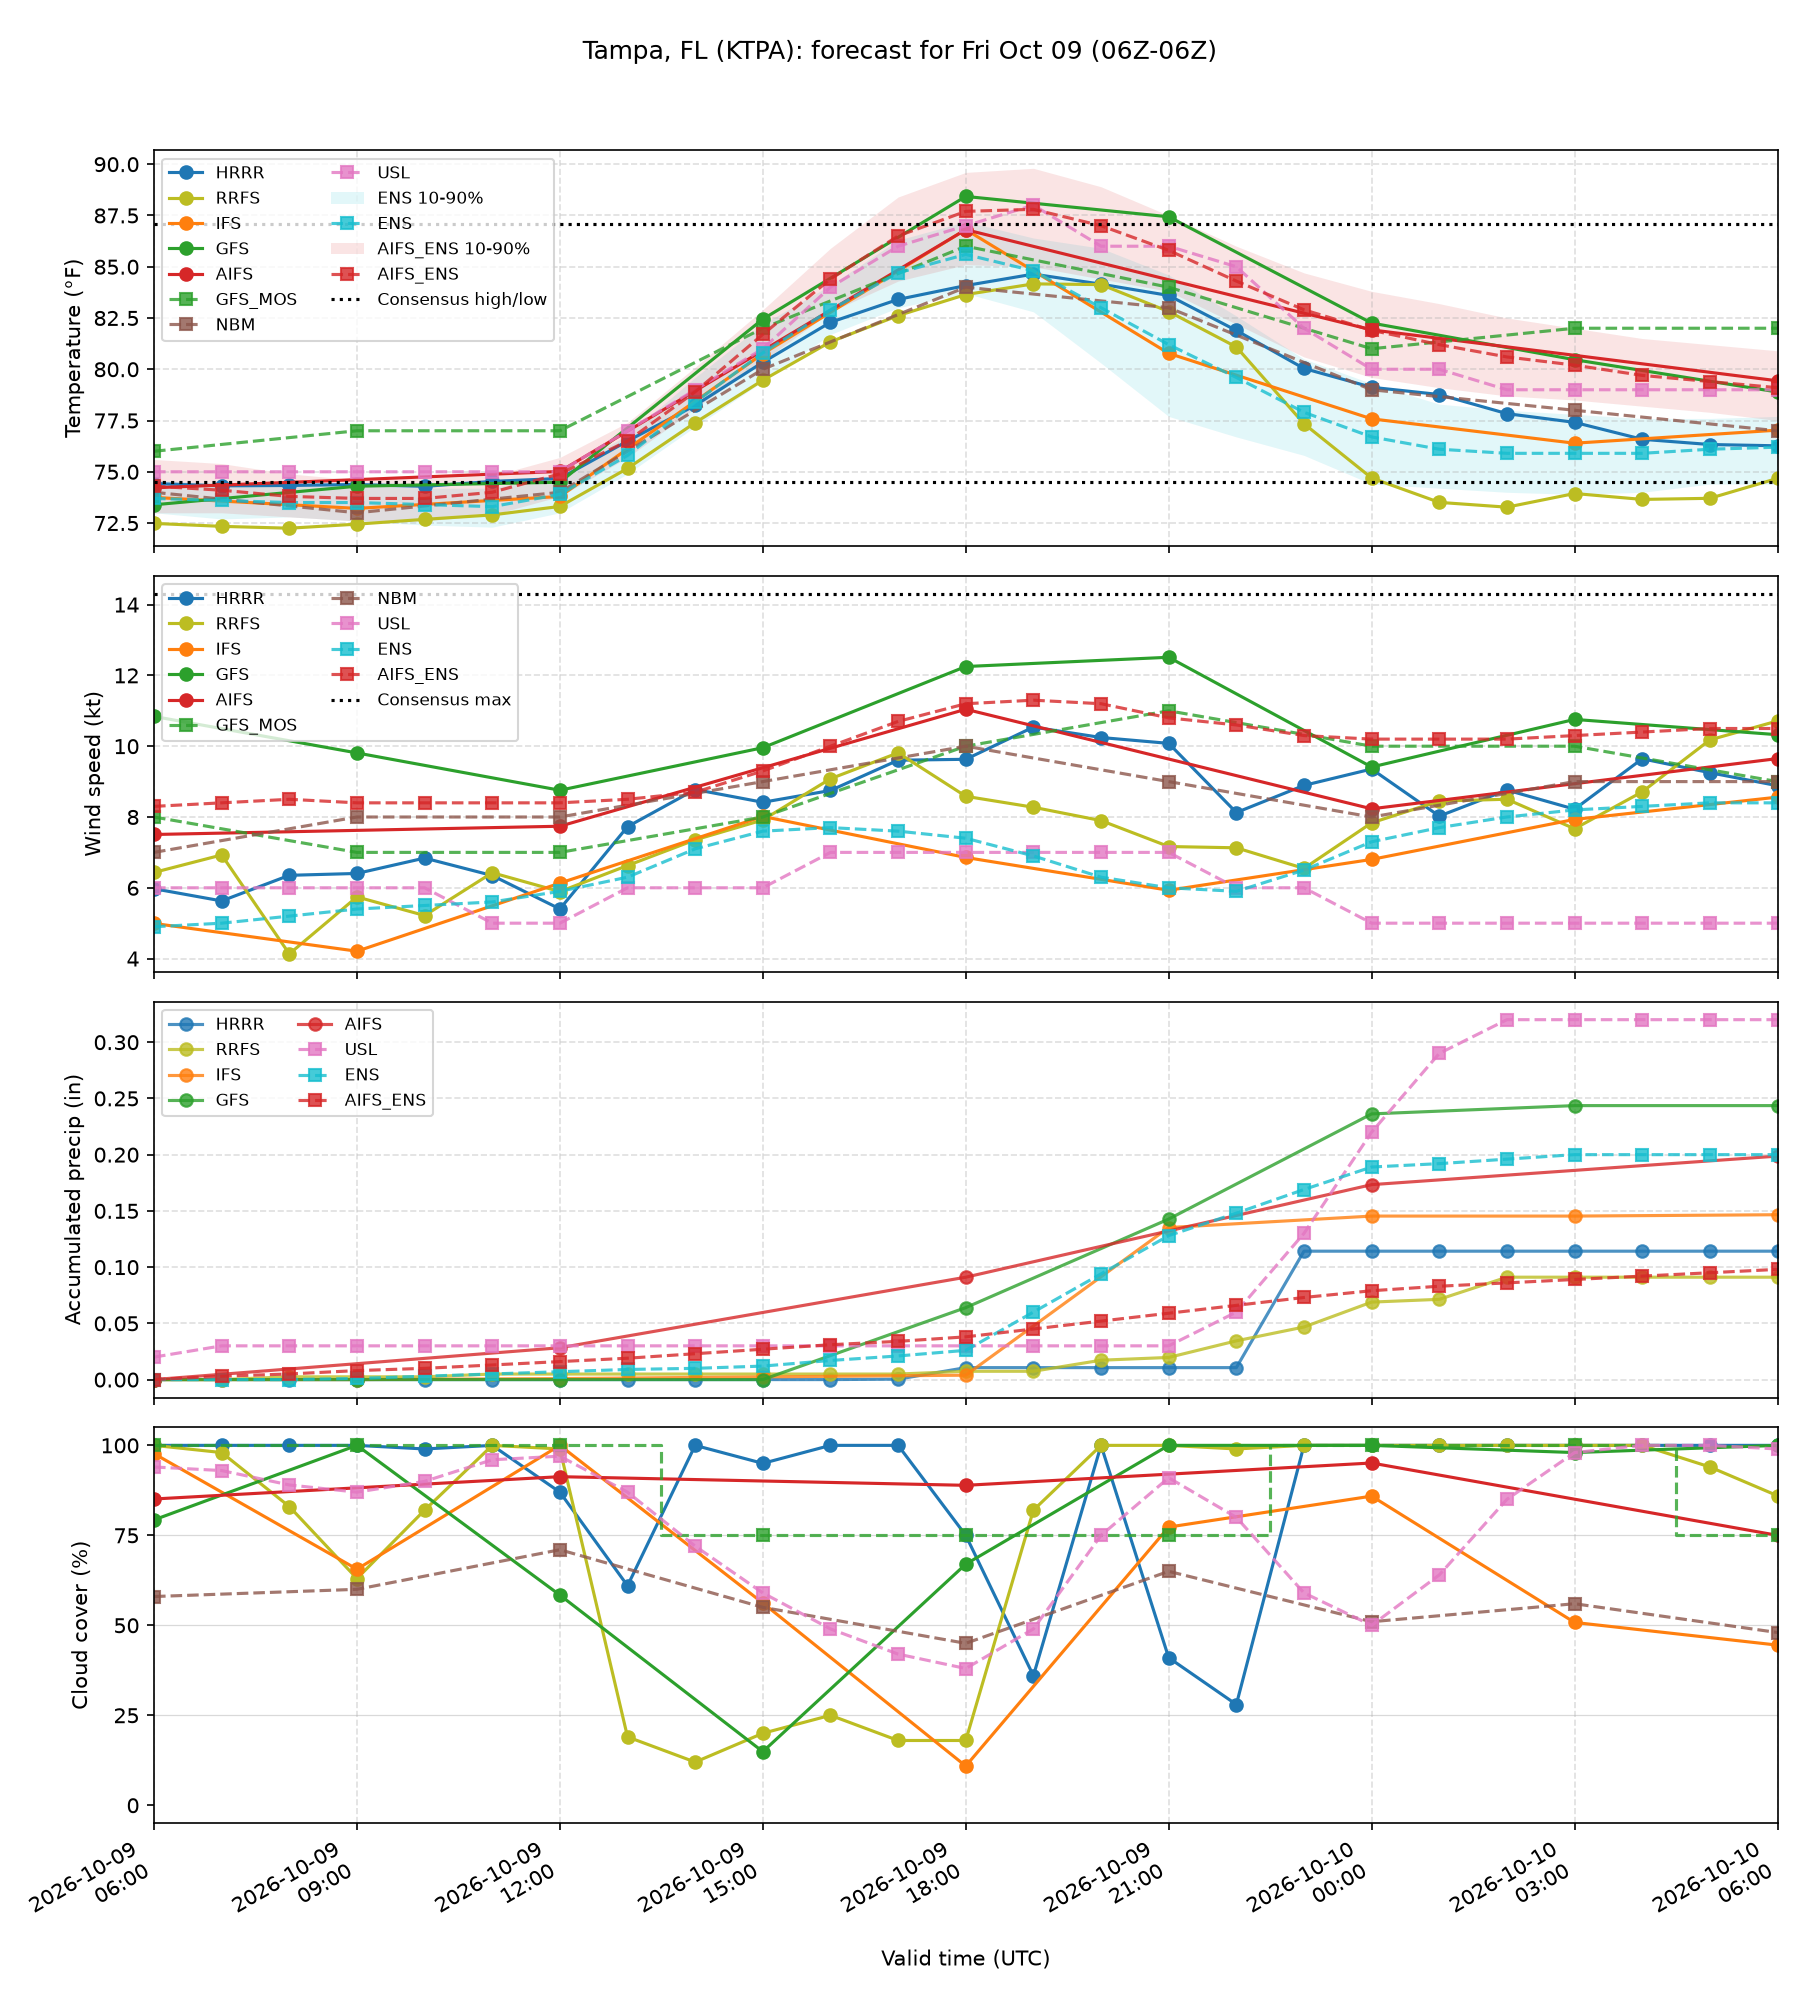
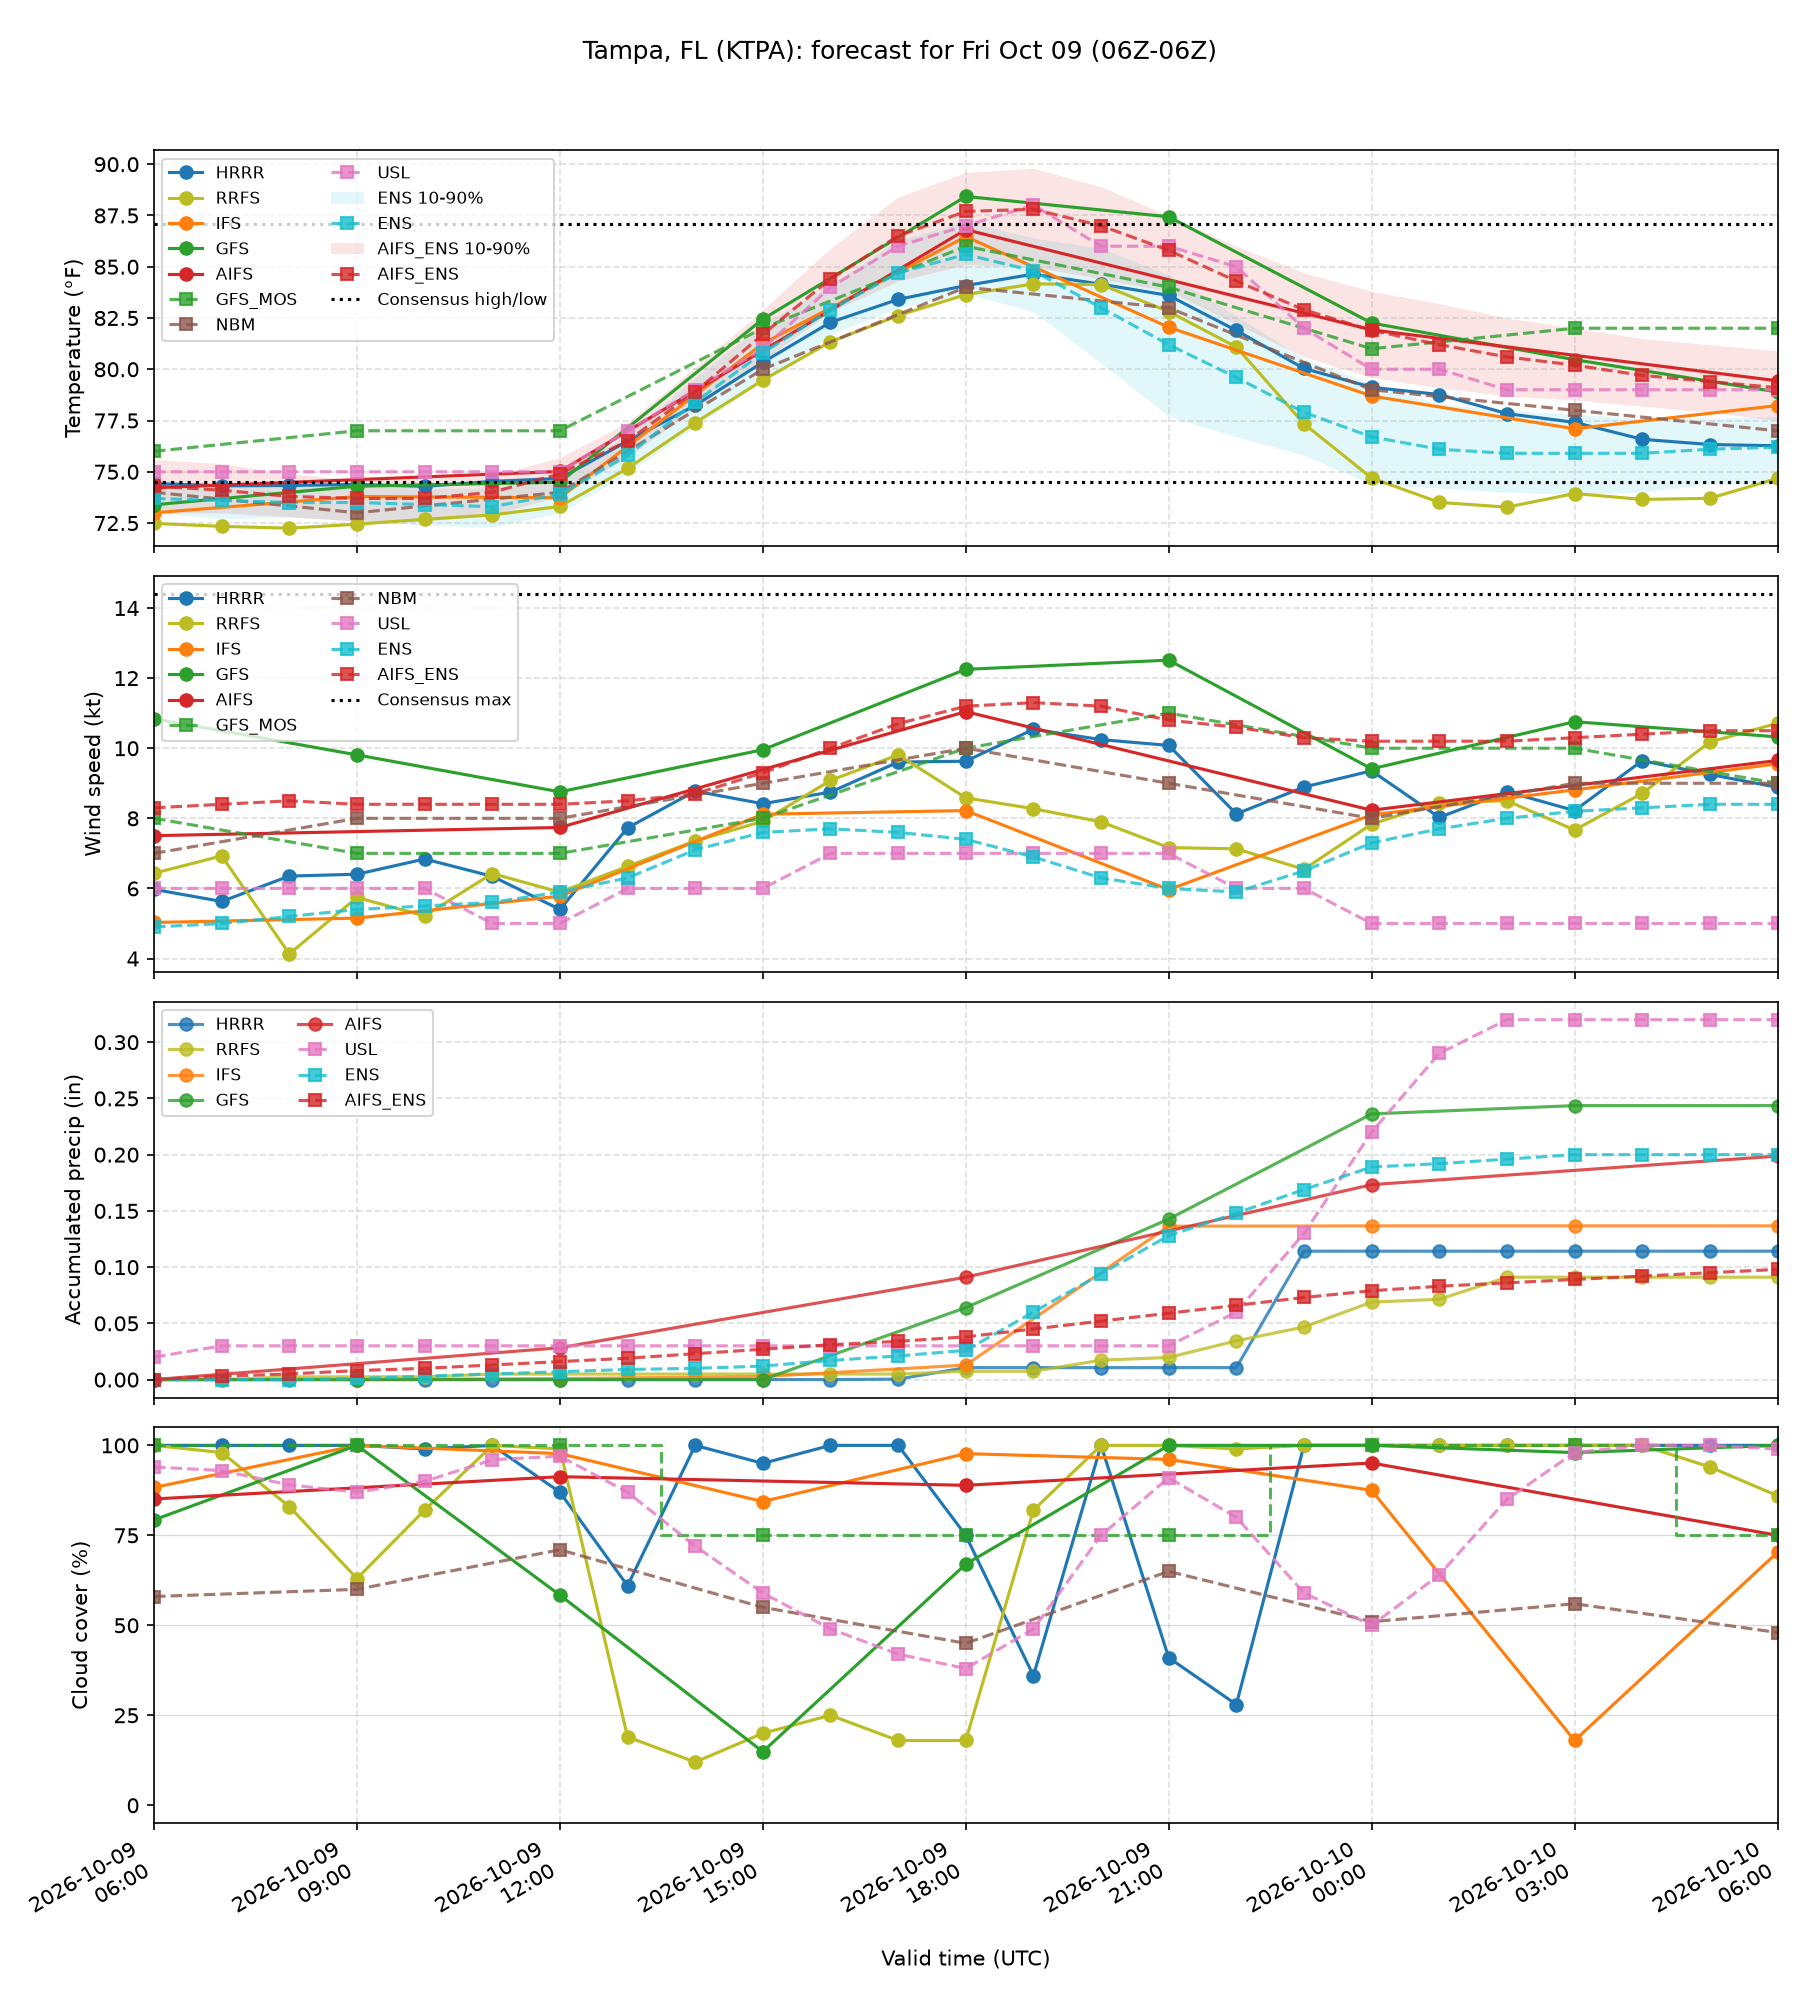
update wxchallenge: 2026-10-08T20:00:12+00:00

diff --git a/weather-forecasts/data/wxchallenge/brief.md b/weather-forecasts/data/wxchallenge/brief.md
@@ -3,7 +3,7 @@
 - Station: **KTPA**
 - Target day: **2026-10-09**, scored over 2026-10-09T06Z to 2026-10-10T06Z (UTC, 06Z to 06Z)
 - Submission deadline: 2026-10-09T00Z (forecasts for a day are due at 00Z that day)
-- Generated: 2026-10-08T19:30:08+00:00 (refreshed several times an hour while the forecast job runs)
+- Generated: 2026-10-08T20:00:12+00:00 (refreshed several times an hour while the forecast job runs)
 - Units: temperature °F, wind kt (max sustained), precipitation inches (liquid)
 
 ## How to use this brief (for AI assistants)
@@ -30,7 +30,7 @@ Run = day/hour (UTC) of the model initialization.
 | --- | --- | --: | --: | --: | --: |
 | HRRR | 08/12Z | 84.6 | 74.3 | 10.5 | 0.11 |
 | RRFS | 08/12Z | 84.5 | 72.2 | 10.7 | 0.09 |
-| IFS | 08/06Z | 86.9 | 72.9 | 8.6 | 0.15 |
+| IFS | 08/12Z | 86.7 | 72.9 | 9.6 | 0.14 |
 | GFS | 08/12Z | 90.0 | 73.2 | 12.5 | 0.24 |
 | AIFS | 08/12Z | 86.8 | 74.2 | 11.0 | 0.20 |
 | GFS_MOS | 08/12Z | 88.0 | 76.0 | 11.0 | 0.32 |
@@ -40,9 +40,9 @@ Run = day/hour (UTC) of the model initialization.
 | AIFS_ENS | 08/06Z | 87.9 | 73.5 | 12.5 | 0.10 |
 | GEFS | 08/12Z | 88.8 | 75.5 | 14.0 | 0.14 |
 | HRRRCAST (precip only) | 08/12Z | — | — | — | 0.01 |
-| REFS (precip only) | 08/12Z | — | — | — | 0.08 |
+| REFS (precip only) | 08/18Z | — | — | — | 0.08 |
 | NBM_QMD (precip only) | 08/12Z | — | — | — | 0.19 |
-| **CONSENSUS** |  | **87.1** | **74.5** | **14.3** | **0.18** |
+| **CONSENSUS** |  | **87.1** | **74.5** | **14.4** | **0.18** |
 
 Notes:
 - AIFS: 6-hourly output: high/low likely underdone
@@ -52,7 +52,7 @@ Notes:
 - AIFS_ENS: ensemble mean of 51 members (Open-Meteo)
 - GEFS: ensemble mean of 31 members (Open-Meteo); not in the consensus
 - HRRRCAST: median of 18 members (experimental AI model)
-- REFS: median of 14 members, 12Z + 06Z runs (RRFS para)
+- REFS: median of 14 members, 18Z + 12Z runs (RRFS para)
 - NBM_QMD: calibrated PoP and percentiles (NBM QMD); precip = 50% level
 
 GEFS is shown but not used in the consensus. Precip-only ensembles (REFS, HRRRCAST) and NBM QMD are not in the consensus either; they inform the precip choice.
@@ -83,7 +83,7 @@ GEFS is shown but not used in the consensus. Precip-only ensembles (REFS, HRRRCA
 | GEFS | 31 | Wind kt | 12.3 | 12.9 | 13.7 | 14.6 | 15.9 | 14.0 |
 | GEFS | 31 | Precip in | 0.05 | 0.09 | 0.13 | 0.20 | 0.25 | 0.14 |
 | HRRRCAST | 18 | Precip in | 0.01 | 0.01 | 0.01 | 0.03 | 0.08 | 0.03 |
-| REFS | 14 | Precip in | 0.03 | 0.05 | 0.08 | 0.13 | 0.14 | 0.09 |
+| REFS | 14 | Precip in | 0.04 | 0.04 | 0.08 | 0.11 | 0.14 | 0.09 |
 
 Share of members reaching each 24-h precip amount:
 
@@ -93,7 +93,7 @@ Share of members reaching each 24-h precip amount:
 | AIFS_ENS | 94% | 37% | 6% | 0% |
 | GEFS | 100% | 68% | 6% | 0% |
 | HRRRCAST | 72% | 11% | 0% | 0% |
-| REFS | 93% | 36% | 0% | 0% |
+| REFS | 100% | 29% | 0% | 0% |
 
 NBM QMD calibrated 24-h precip percentiles: p10 0.00", p25 0.04", p50 0.19", p75 0.41", p90 0.87"
 
@@ -109,7 +109,7 @@ NBM QMD calibrated 24-h precip percentiles: p10 0.00", p25 0.04", p50 0.19", p75
 | AIFS_ENS | member fraction | 29% | 49% | 63% | 31% | 94% | 0.23 (20) |
 | GEFS | member fraction | 29% | 87% | 97% | 32% | 100% | 0.30 (20) |
 | HRRRCAST | member fraction | — | — | — | — | 72% | 0.15 (20) |
-| REFS | member fraction | — | — | — | — | 93% | — |
+| REFS | member fraction | — | — | — | — | 100% | — |
 | NBM_QMD | NBM QMD | 5% | 14% | 66% | 6% | 77% | 0.11 (20) |
 
 For reference, always forecasting the period's observed frequency (40% of 6-h blocks wet) scores Brier 0.24.
@@ -284,25 +284,25 @@ Chance (%) of ≥0.01" in each 6-hour block, 06-12/12-18/18-00/00-06 UTC, agains
 | 10-06 | 1.36" (wet: 12-18, 18-00, 00-06) | 55/65/78/61 | 17/45/63/68 | 31/84/96/86 | 61/98/100/94 | 94/97/100/42 | 33/100/100/100 | 24h 100% | 16/46/86/61 |
 | 10-07 | 2.16" (wet: 06-12, 12-18, 18-00, 00-06) | 52/92/87/86 | 73/79/74/42 | 96/98/100/78 | 98/100/98/88 | 90/100/100/94 | 100/100/100/100 | 24h 100% | 61/81/91/55 |
 
-## Today so far (2026-10-08, through 2026-10-08T19:24Z)
+## Today so far (2026-10-08, through 2026-10-08T19:53Z)
 
-This is the day in progress (not the target day), scored against the runs submitted before its deadline. Observed so far: high 79.0 °F, low 75.0 °F, max wind 7 kt, precip 0.35" (13 hourly obs).
+This is the day in progress (not the target day), scored against the runs submitted before its deadline. Observed so far: high 79.0 °F, low 75.0 °F, max wind 7 kt, precip 0.37" (14 hourly obs).
 
 Temp bias/MAE are over the hourly obs so far. High/low columns show the model's daily value and (in brackets) its difference from the observed extreme so far; "pending" means the model's expected time of that extreme hasn't passed, so the observed value can still change.
 
 | Model | Run | Temp bias | Temp MAE | High (err) | Low (err) | Wind bias | Precip so far | Precip err |
 | --- | --- | --: | --: | --: | --: | --: | --: | --: |
-| HRRR | 07/18Z | -1.3 | 1.4 | 79 (+0) | 73 (-2) pending | +2.1 | 1.00 | +0.65 |
-| RRFS | 07/18Z | -1.5 | 2.0 | 80 (+1) pending | 69 (-6) pending | +0.4 | 0.17 | -0.18 |
-| IFS | 07/12Z | -1.4 | 1.4 | 81 (+2) pending | 74 (-2) pending | -0.7 | 0.61 | +0.26 |
-| GFS | 07/18Z | -0.9 | 2.2 | 82 (+3) | 72 (-2) pending | +4.4 | 0.36 | +0.01 |
-| AIFS | 07/12Z | -0.8 | 1.1 | 79 (+0) | 74 (-1) pending | +1.0 | 0.84 | +0.49 |
-| GFS_MOS | 07/18Z | +0.3 | 0.8 | 83 (+4) | 74 (-1) pending | +1.7 | — | — |
-| NBM | 07/18Z | -0.8 | 1.7 | 81 (+2) | 73 (-2) | +2.8 | — | — |
-| USL | 07/22Z | +1.2 | 1.2 | 83 (+4) | 75 (+0) | +2.5 | 0.45 | +0.10 |
-| ENS | 07/12Z | -1.3 | 1.6 | 79 (+0) | 73 (-2) | +1.1 | 0.91 | +0.56 |
-| AIFS_ENS | 07/12Z | -0.7 | 1.5 | 80 (+1) | 74 (-2) | +2.3 | 0.81 | +0.46 |
-| GEFS | 07/18Z | +0.3 | 0.8 | 81 (+2) | 75 (+0) | +5.4 | 0.41 | +0.06 |
+| HRRR | 07/18Z | -1.3 | 1.4 | 79 (+0) | 73 (-2) pending | +2.1 | 1.26 | +0.89 |
+| RRFS | 07/18Z | -1.3 | 1.9 | 80 (+1) pending | 69 (-6) pending | +0.3 | 0.17 | -0.20 |
+| IFS | 07/12Z | -1.3 | 1.3 | 81 (+2) pending | 74 (-2) pending | -0.9 | 0.62 | +0.25 |
+| GFS | 07/18Z | -0.8 | 2.1 | 82 (+3) | 72 (-2) pending | +4.5 | 0.37 | +0.00 |
+| AIFS | 07/12Z | -0.7 | 1.0 | 79 (+0) | 74 (-1) pending | +0.8 | 0.88 | +0.51 |
+| GFS_MOS | 07/18Z | +0.3 | 0.8 | 83 (+4) | 74 (-1) pending | +1.6 | — | — |
+| NBM | 07/18Z | -0.7 | 1.6 | 81 (+2) | 73 (-2) | +2.7 | — | — |
+| USL | 07/22Z | +1.3 | 1.4 | 83 (+4) | 75 (+0) | +2.3 | 0.46 | +0.09 |
+| ENS | 07/12Z | -1.2 | 1.5 | 79 (+0) | 73 (-2) | +0.9 | 0.95 | +0.58 |
+| AIFS_ENS | 07/12Z | -0.6 | 1.4 | 80 (+1) | 74 (-2) | +2.1 | 0.85 | +0.48 |
+| GEFS | 07/18Z | +0.3 | 0.9 | 81 (+2) | 75 (+0) | +5.4 | 0.42 | +0.05 |
 
 ## Raw data
 
